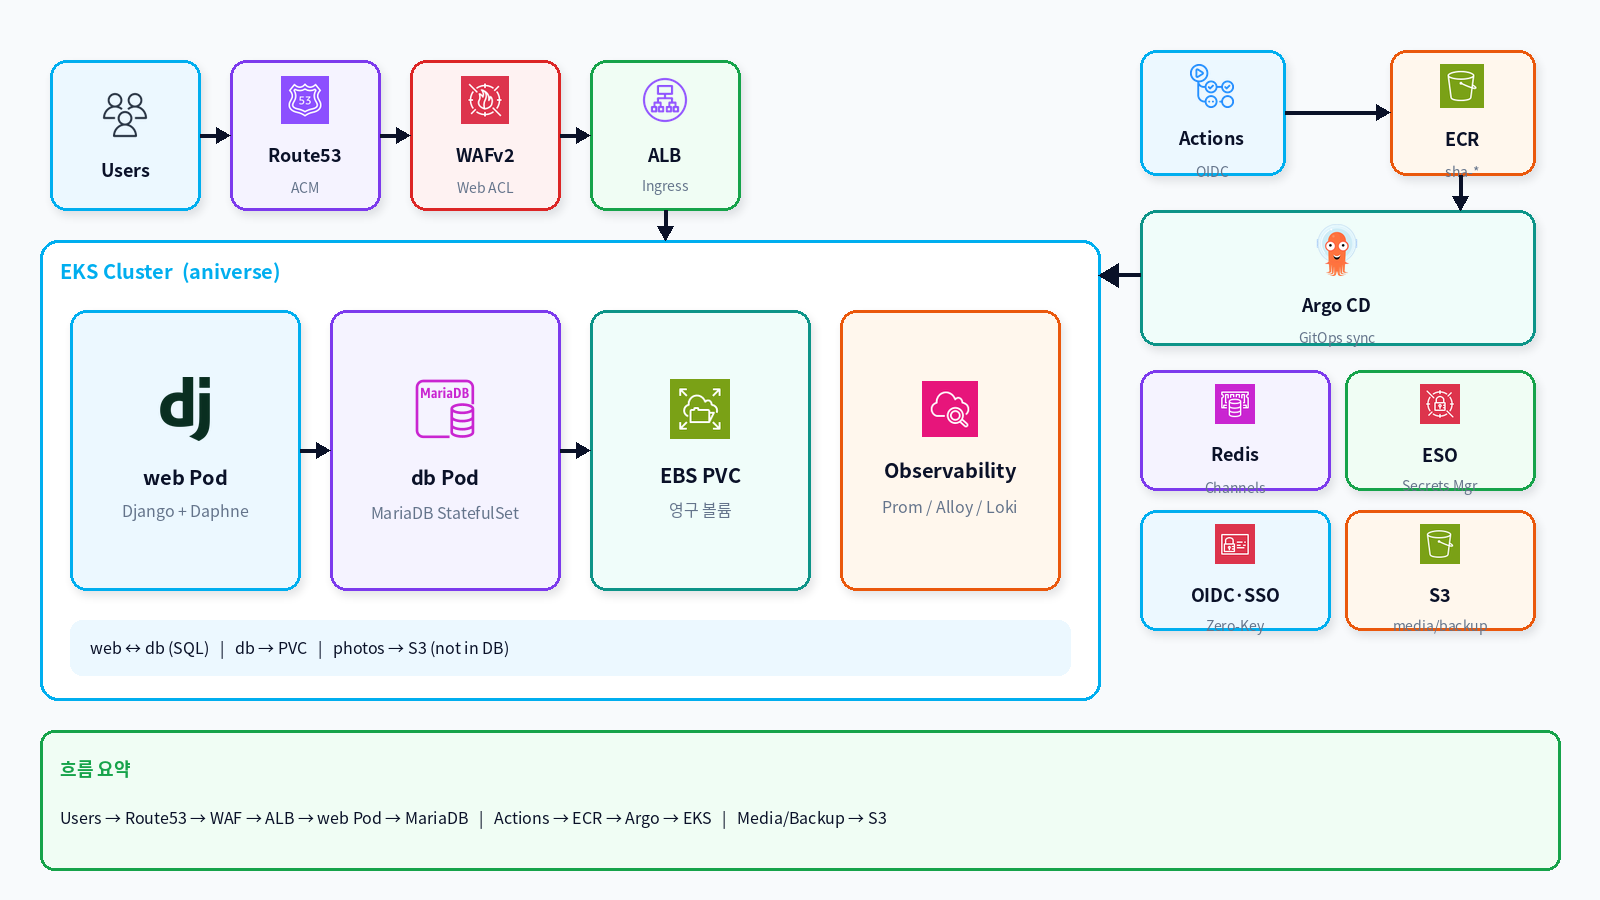
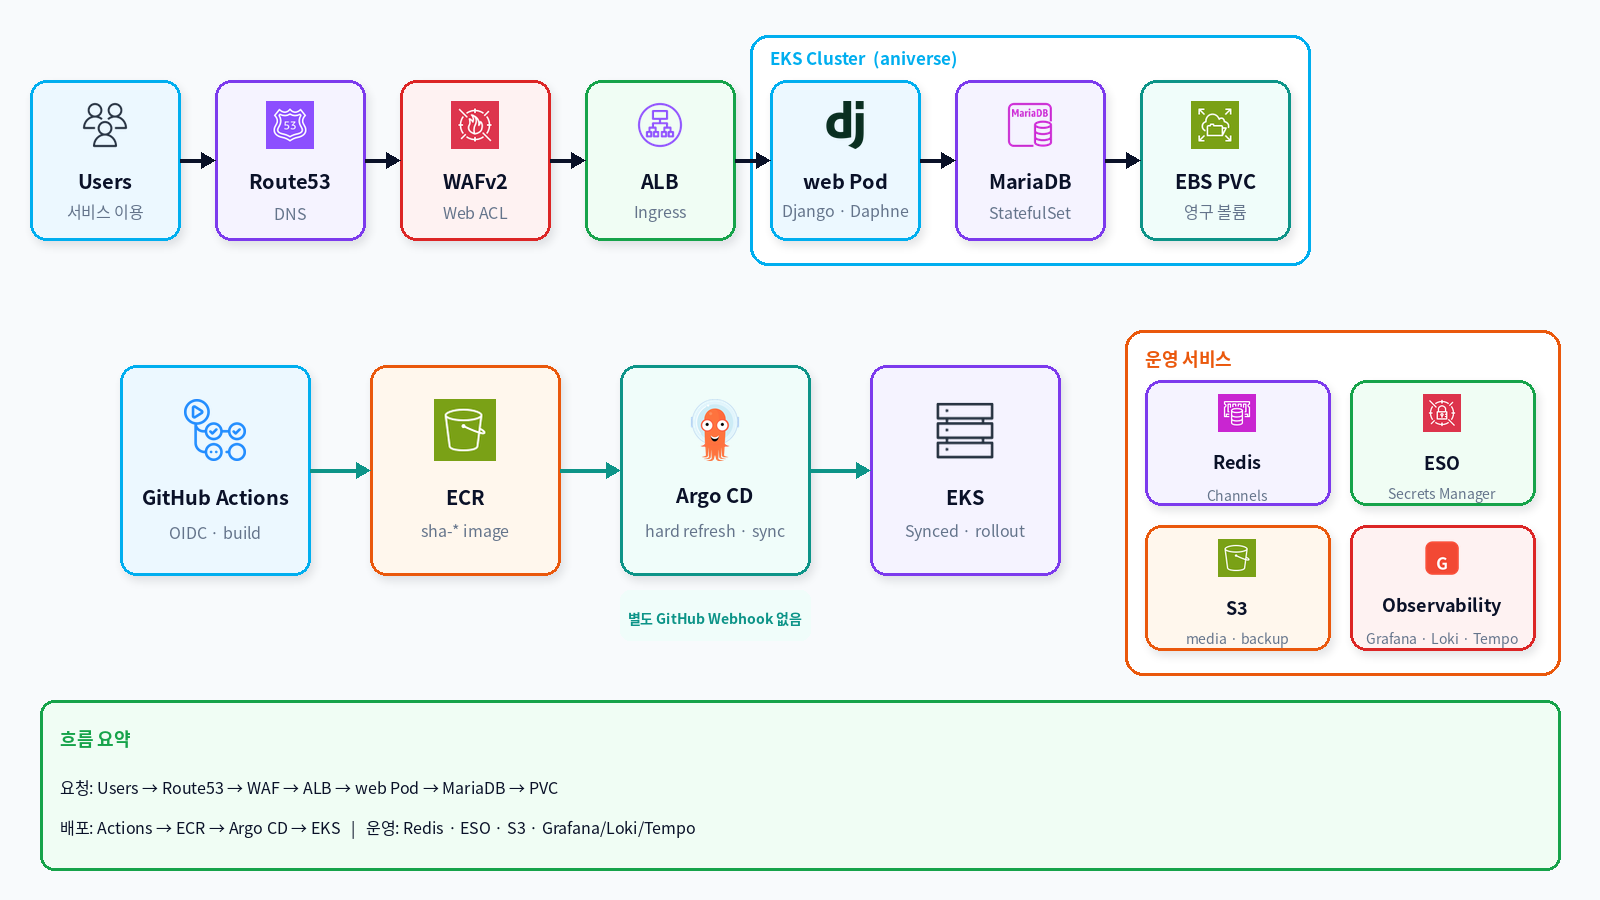
docs: refine V2 architecture diagram for presentation

diff --git a/docs/presentation/make_hybrid_diagrams.py b/docs/presentation/make_hybrid_diagrams.py
@@ -190,57 +190,67 @@ def make_arch_v2():
     img = Image.new("RGBA", (W, H), BG + (255,))
     d = ImageDraw.Draw(img)
 
-    tile(img, 50, 60, 150, 150, "users", "Users", "", CYAN, SOFT_BLUE, 48)
-    tile(img, 230, 60, 150, 150, "route53", "Route53", "ACM", PURPLE, SOFT_PURPLE, 48)
-    tile(img, 410, 60, 150, 150, "waf", "WAFv2", "Web ACL", RED, SOFT_RED, 48)
-    tile(img, 590, 60, 150, 150, "alb", "ALB", "Ingress", GREEN, SOFT_GREEN, 48)
+    # 요청 흐름: 외부 진입 뒤 EKS의 web/db/PVC로 이어지는 한 줄 구성
+    soft_card(img, (750, 35, 1310, 265), r=18, fill=WHITE, shadow=False)
+    d.rounded_rectangle((750, 35, 1310, 265), radius=18, outline=CYAN, width=3)
+    d.text((770, 45), "EKS Cluster  (aniverse)", font=fnt(17, True), fill=CYAN)
 
-    soft_card(img, (40, 240, 1100, 700), r=18, fill=WHITE, shadow=False)
-    d = ImageDraw.Draw(img)
-    d.rounded_rectangle((40, 240, 1100, 700), radius=18, outline=CYAN, width=3)
-    d.text((60, 255), "EKS Cluster  (aniverse)", font=fnt(20, True), fill=CYAN)
-
-    tile(img, 70, 310, 230, 280, "django", "web Pod", "Django + Daphne", CYAN, SOFT_BLUE, 64)
-    tile(img, 330, 310, 230, 280, "rds_maria", "db Pod", "MariaDB StatefulSet", PURPLE, SOFT_PURPLE, 64)
-    tile(img, 590, 310, 220, 280, "efs", "EBS PVC", "영구 볼륨", TEAL, SOFT_TEAL, 60)
-    tile(img, 840, 310, 220, 280, "cloudwatch", "Observability", "Prom / Alloy / Loki", ORANGE, SOFT_ORANGE, 56)
-
-    soft_card(img, (70, 620, 1070, 675), r=12, fill=SOFT_BLUE, shadow=False)
-    d = ImageDraw.Draw(img)
-    d.text((90, 635), "web ↔ db (SQL)   |   db → PVC   |   photos → S3 (not in DB)", font=fnt(16), fill=NAVY)
-
-    # GitOps: Actions → ECR → Argo → EKS (요약과 동일 화살표)
-    tile(img, 1140, 50, 145, 125, "githubactions", "Actions", "OIDC", CYAN, SOFT_BLUE, 44)
-    tile(img, 1390, 50, 145, 125, "s3", "ECR", "sha-*", ORANGE, SOFT_ORANGE, 44)
-    tile(img, 1140, 210, 395, 135, "argo", "Argo CD", "GitOps sync", TEAL, SOFT_TEAL, 52)
-    # 보안·캐시 뱃지 (8장 Zero-Key / Redis와 그림 정합)
-    tile(img, 1140, 370, 190, 120, "elasticache", "Redis", "Channels", PURPLE, SOFT_PURPLE, 40)
-    tile(img, 1345, 370, 190, 120, "secrets", "ESO", "Secrets Mgr", GREEN, SOFT_GREEN, 40)
-    tile(img, 1140, 510, 190, 120, "iam", "OIDC·SSO", "Zero-Key", CYAN, SOFT_BLUE, 40)
-    tile(img, 1345, 510, 190, 120, "s3", "S3", "media/backup", ORANGE, SOFT_ORANGE, 40)
+    request_tiles = [
+        (30, "users", "Users", "서비스 이용", CYAN, SOFT_BLUE),
+        (215, "route53", "Route53", "DNS", PURPLE, SOFT_PURPLE),
+        (400, "waf", "WAFv2", "Web ACL", RED, SOFT_RED),
+        (585, "alb", "ALB", "Ingress", GREEN, SOFT_GREEN),
+        (770, "django", "web Pod", "Django · Daphne", CYAN, SOFT_BLUE),
+        (955, "rds_maria", "MariaDB", "StatefulSet", PURPLE, SOFT_PURPLE),
+        (1140, "efs", "EBS PVC", "영구 볼륨", TEAL, SOFT_TEAL),
+    ]
+    for x, icon, title, sub, border, fill in request_tiles:
+        tile(img, x, 80, 150, 160, icon, title, sub, border, fill, 48)
 
     d = ImageDraw.Draw(img)
-    arrow_h(d, 200, 135, 230, NAVY)
-    arrow_h(d, 380, 135, 410, NAVY)
-    arrow_h(d, 560, 135, 590, NAVY)
-    arrow_v(d, 665, 210, 240, NAVY)
-    arrow_h(d, 300, 450, 330, NAVY)
-    arrow_h(d, 560, 450, 590, NAVY)
-    # Actions → ECR
-    arrow_h(d, 1285, 112, 1390, NAVY)
-    # ECR → Argo (아래로)
-    arrow_v(d, 1460, 175, 210, NAVY)
-    # Argo 왼쪽 → EKS
-    d.line([(1140, 275), (1115, 275)], fill=NAVY, width=4)
-    d.polygon([(1098, 275), (1118, 263), (1118, 287)], fill=NAVY)
+    for x0, x1 in [(180, 215), (365, 400), (550, 585), (735, 770), (920, 955), (1105, 1140)]:
+        arrow_h(d, x0, 160, x1, NAVY)
 
-    soft_card(img, (40, 730, 1560, 870), r=14, fill=SOFT_GREEN, shadow=False)
+    # GitOps: 웹훅 대신 Actions가 hard refresh와 sync를 직접 실행
+    gitops_tiles = [
+        (120, "githubactions", "GitHub Actions", "OIDC · build", CYAN, SOFT_BLUE),
+        (370, "s3", "ECR", "sha-* image", ORANGE, SOFT_ORANGE),
+        (620, "argo", "Argo CD", "hard refresh · sync", TEAL, SOFT_TEAL),
+        (870, "servers", "EKS", "Synced · rollout", PURPLE, SOFT_PURPLE),
+    ]
+    for x, icon, title, sub, border, fill in gitops_tiles:
+        tile(img, x, 365, 190, 210, icon, title, sub, border, fill, 62)
+
     d = ImageDraw.Draw(img)
-    d.rounded_rectangle((40, 730, 1560, 870), radius=14, outline=GREEN, width=3)
-    d.text((60, 755), "흐름 요약", font=fnt(18, True), fill=GREEN)
+    for x0, x1 in [(310, 370), (560, 620), (810, 870)]:
+        arrow_h(d, x0, 470, x1, TEAL)
+
+    # Argo CD 공식 문어 로고가 분명히 보이도록 별도 설명을 추가
+    soft_card(img, (620, 590, 810, 640), r=10, fill=SOFT_TEAL, shadow=False)
+    center_text(d, "별도 GitHub Webhook 없음", 715, 615, fnt(14, True), TEAL)
+
+    # 운영 구성은 발표 화면에서 읽기 쉽도록 2×2 카드로 정리
+    soft_card(img, (1125, 330, 1560, 675), r=18, fill=WHITE, shadow=False)
+    d.rounded_rectangle((1125, 330, 1560, 675), radius=18, outline=ORANGE, width=3)
+    d.text((1145, 345), "운영 서비스", font=fnt(18, True), fill=ORANGE)
+    tile(img, 1145, 380, 185, 125, "elasticache", "Redis", "Channels", PURPLE, SOFT_PURPLE, 38)
+    tile(img, 1350, 380, 185, 125, "secrets", "ESO", "Secrets Manager", GREEN, SOFT_GREEN, 38)
+    tile(img, 1145, 525, 185, 125, "s3", "S3", "media · backup", ORANGE, SOFT_ORANGE, 38)
+    tile(img, 1350, 525, 185, 125, "grafana", "Observability", "Grafana · Loki · Tempo", RED, SOFT_RED, 38)
+
+    soft_card(img, (40, 700, 1560, 870), r=14, fill=SOFT_GREEN, shadow=False)
+    d = ImageDraw.Draw(img)
+    d.rounded_rectangle((40, 700, 1560, 870), radius=14, outline=GREEN, width=3)
+    d.text((60, 725), "흐름 요약", font=fnt(18, True), fill=GREEN)
     d.text(
-        (60, 805),
-        "Users → Route53 → WAF → ALB → web Pod → MariaDB   |   Actions → ECR → Argo → EKS   |   Media/Backup → S3",
+        (60, 775),
+        "요청: Users → Route53 → WAF → ALB → web Pod → MariaDB → PVC",
+        font=fnt(16),
+        fill=NAVY,
+    )
+    d.text(
+        (60, 815),
+        "배포: Actions → ECR → Argo CD → EKS   |   운영: Redis · ESO · S3 · Grafana/Loki/Tempo",
         font=fnt(16),
         fill=NAVY,
     )
